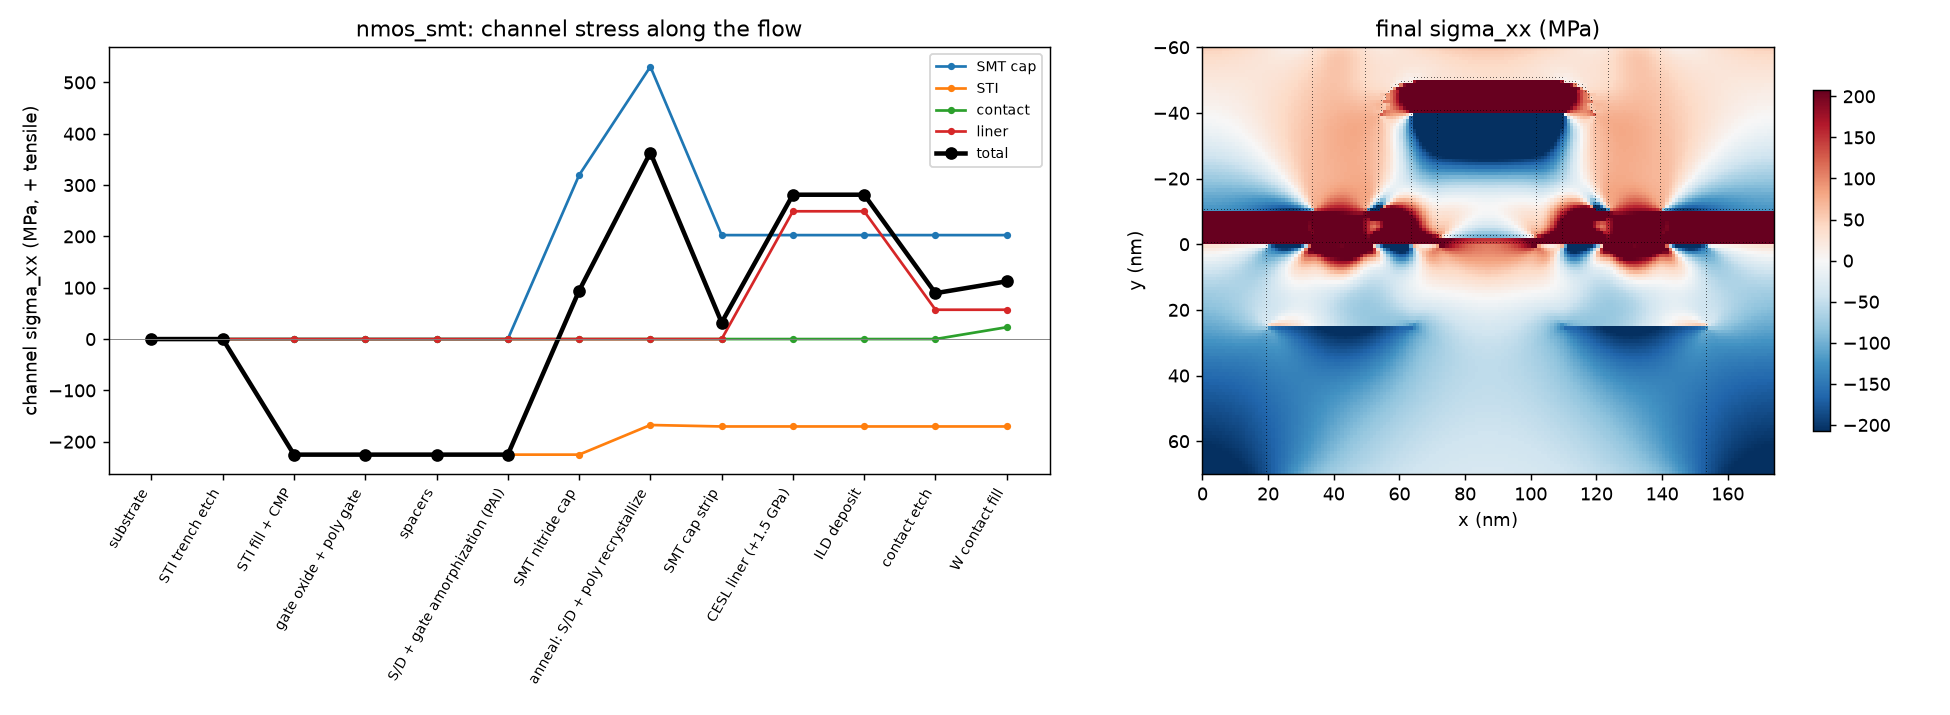
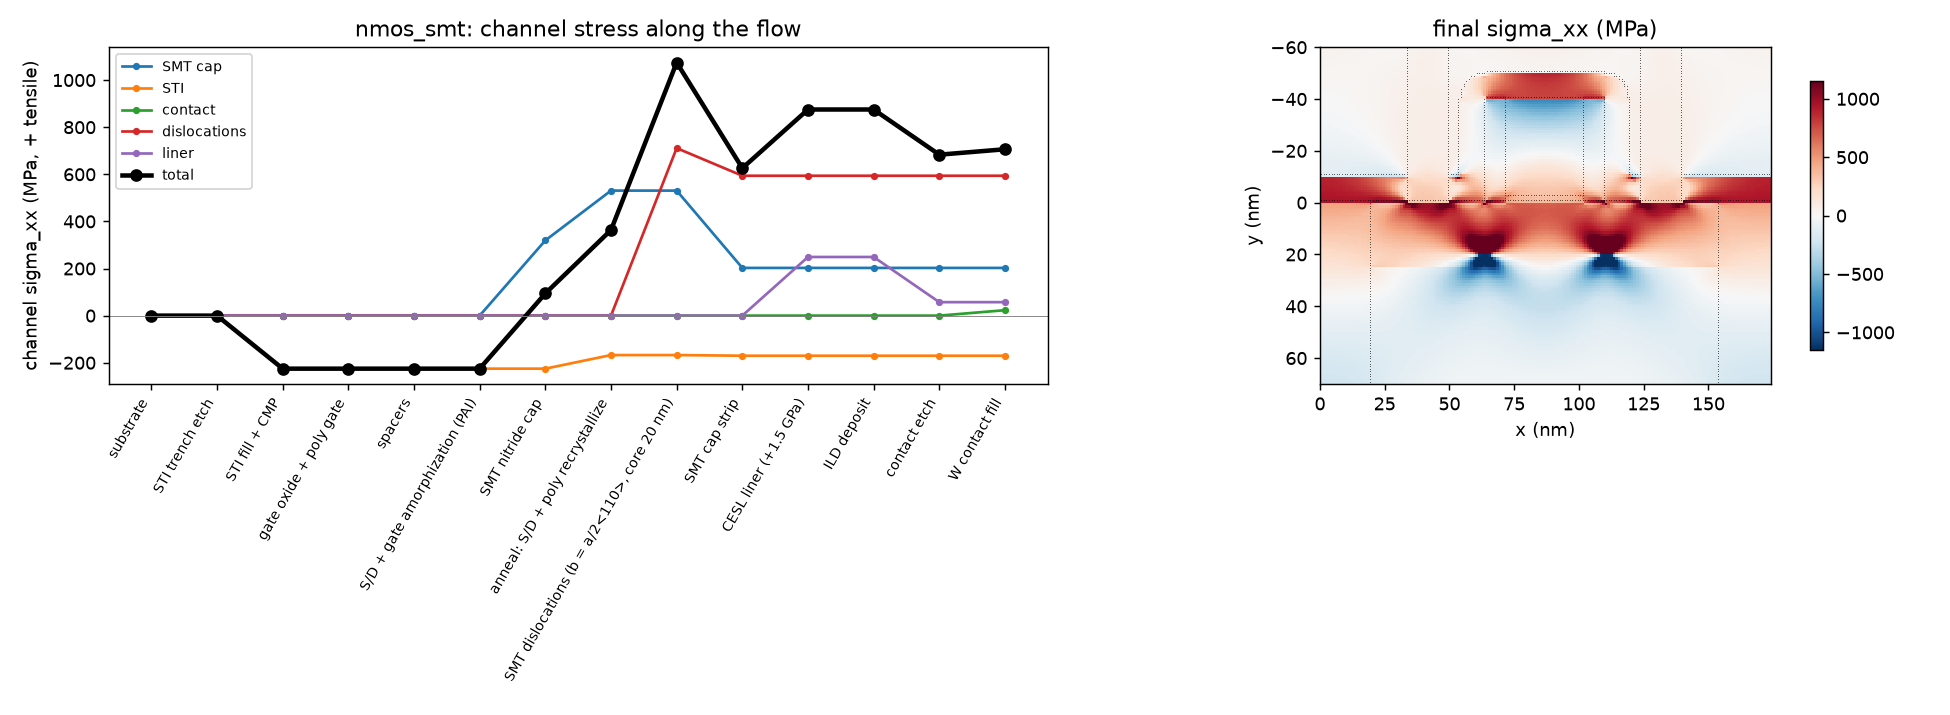
Stress: SMT edge dislocations as a Volterra cut
mechanics/dislocation.py: eps* = sym(b x n)/t on a pixel layer from the
core to the surface; checked against the analytic edge dislocation. The
NMOS SMT flow gets one a/2<110> dislocation per S/D: +594 MPa channel
tension (+113 -> +706 MPa). DEVELOPMENT_LOG 76, docs/stress.md.

diff --git a/mechanics/dislocation.py b/mechanics/dislocation.py
@@ -1,0 +1,69 @@
+"""Edge dislocations as a Volterra cut (2D, line along z).
+
+A dislocation with Burgers vector b is the displacement jump b across a
+cut surface that ends on the dislocation line. In an eigenstrain solver the
+cut is one layer of pixels with stress-free strain
+
+    eps* = sym(b (x) n) / t
+
+(n the cut's unit normal, t the layer thickness along n): the layer is
+stretched or sheared by exactly b. The cut runs from the core to a free
+surface, so only the core is a real defect; the exact cut position does
+not matter beyond the layer's own pixels (Volterra).
+
+Sign convention: b = -b_x x_hat on a vertical cut (n = x_hat) REMOVES a
+half plane of thickness b_x between the core and the surface: the material
+on both sides is pulled together, the classic missing-half-plane edge
+dislocation of an SMT S/D, which leaves the channel next to it in tension.
+For Si, b = a/2<110> = 0.384 nm.
+"""
+import numpy as np
+
+B_SI = 5.431 / np.sqrt(2) / 10.0          # a/2<110>, nm
+
+
+def edge_dislocation(grid, core, cut_dir, b, labels=None, solid=None):
+    """(mask (ny, nx), eps* (ny*nx, 6)) for an edge dislocation whose cut
+    runs from `core` (x, y nm) along `cut_dir` (unit vector, toward the
+    surface) to the end of the solid. b: Burgers vector (bx, by) nm.
+    Only pixels where solid (a bool (ny, nx), default labels != 0) is True
+    get the eigenstrain."""
+    X, Y = grid.coords()
+    h = grid.h
+    d = np.asarray(cut_dir, float)
+    d /= np.linalg.norm(d)
+    n = np.array([-d[1], d[0]])                       # cut normal
+    rx, ry = X - core[0], Y - core[1]
+    along = rx * d[0] + ry * d[1]
+    across = rx * n[0] + ry * n[1]
+    # pixel thickness along n of a square pixel: h (|n_x| + |n_y|) / max... use the
+    # band |across| < t/2 with t = h (|n_x| + |n_y|), so each column of the cut
+    # is crossed by about one pixel
+    t = h * (abs(n[0]) + abs(n[1]))
+    mask = (along >= 0) & (across >= -t / 2) & (across < t / 2)      # half-open: one pixel per column
+    if solid is None and labels is not None:
+        solid = labels != 0
+    if solid is not None:
+        mask &= solid
+    bb = np.asarray(b, float)
+    e = np.zeros(6)
+    e[0] = bb[0] * n[0] / t
+    e[1] = bb[1] * n[1] / t
+    e[5] = (bb[0] * n[1] + bb[1] * n[0]) / t          # engineering shear
+    eps = np.zeros((mask.size, 6))
+    eps[mask.ravel()] = e
+    return mask, eps
+
+
+def edge_dislocation_infinite(x, y, b, E, nu):
+    """Analytic stress (sxx, syy, sxy) of an edge dislocation (b along x,
+    line along z, glide plane y = 0, extra half plane at y > 0 for b > 0)
+    in an infinite isotropic medium, plane strain (Hirth & Lothe 3-43).
+    Here y points UP (the textbook frame); the solver's y points down."""
+    mu = E / (2 * (1 + nu))
+    D = mu * b / (2 * np.pi * (1 - nu))
+    r4 = (x ** 2 + y ** 2) ** 2
+    sxx = -D * y * (3 * x ** 2 + y ** 2) / r4
+    syy = D * y * (x ** 2 - y ** 2) / r4
+    sxy = D * x * (x ** 2 - y ** 2) / r4
+    return sxx, syy, sxy

diff --git a/mechanics/planar_flow.py b/mechanics/planar_flow.py
@@ -22,6 +22,10 @@ be changed with --set NAME=VALUE):
   gate_GPa     -1.0    TiN metal gate
   contact_GPa  +1.0    W contact fill
   cap_GPa      +1.5    SMT cap nitride (NMOS)
+  smt_disl      1      SMT edge dislocations (0 = none): one per S/D at the
+                       gate-side edge, b = a/2<110> = 0.384 nm, a half plane
+                       missing above the core (mechanics/dislocation.py)
+  disl_depth   20      core depth (nm)
 Isotropic films get eps* from their stress (mechanics.elastic.film_eigenstrain);
 SiGe gets the lattice mismatch; Si/SiGe are anisotropic, (001) wafer,
 <110> channel.
@@ -42,7 +46,7 @@ from mechanics.fe2d import Grid2D, StressHistory2D
 GEOM = dict(h=1.0, Lg=30, tox=2, gate_h=40, spacer=8, sd=44, sti=20, sti_depth=80,
             recess=40, raise_=6, liner=10, contact_w=16, hk=2, y_top=-80, y_bot=160, smt_depth=25)
 DEFAULTS = dict(sige_x=0.5, sti_GPa=-0.3, liner_pmos_GPa=-2.5, liner_nmos_GPa=1.5,
-                gate_GPa=-1.0, contact_GPa=1.0, cap_GPa=1.5)
+                gate_GPa=-1.0, contact_GPa=1.0, cap_GPa=1.5, smt_disl=1.0, disl_depth=20.0)
 
 MATS = {1: "Si", 2: "SiGe", 3: "SiO2", 4: "SiO2", 5: "Poly", 6: "Si3N4", 7: "Si3N4",
         8: "SiO2", 9: "HfO2", 10: "TiN", 11: "W", 12: "Si3N4"}
@@ -142,6 +146,20 @@ def run_flow(flow, geom=GEOM, par=DEFAULTS):
         cap = b.conformal(12, p["liner"] + 10)
         b.step("SMT nitride cap", {"SMT cap": (12, b.film(12, v["cap_GPa"]))})
         b.step("anneal: S/D + poly recrystallize", relax=(amorph, 1.0))
+        if v["smt_disl"]:
+            # SMT edge dislocations: one per S/D at the gate-side edge, core at
+            # disl_depth, a half plane (a/2<110>) missing between core and surface
+            from mechanics.dislocation import B_SI, edge_dislocation
+            msk = np.zeros(b.lab.shape, bool)
+            eps = np.zeros((b.lab.size, 6))
+            for side in (-1, 1):
+                x_d = b.xc + side * (p["Lg"] / 2 + p["spacer"]) + side * 0.5 * p["h"]
+                m, e = edge_dislocation(b.g, (x_d, v["disl_depth"]), (0.0, -1.0), (-B_SI, 0.0),
+                                        solid=(b.lab == 1))
+                msk |= m
+                eps += e
+            b.step(f"SMT dislocations (b = a/2<110>, core {v['disl_depth']:.0f} nm)",
+                   {"dislocations": (msk, eps)})
         b.lab[cap] = 0
         b.step("SMT cap strip")
     sig_l = v["liner_pmos_GPa"] if pmos else v["liner_nmos_GPa"]

diff --git a/testsuite/test_mechanics.py b/testsuite/test_mechanics.py
@@ -147,5 +147,37 @@ class TestHistory(unittest.TestCase):
         self.assertLess(np.sign(kept) * np.sign(under_cap), 0)
 
 
+class TestDislocation(unittest.TestCase):
+    def test_edge_dislocation_matches_volterra_field(self):
+        """Volterra cut vs the analytic infinite-medium edge dislocation
+        (Hirth & Lothe), isotropic, 10-20 nm from the core. sigma_yy and
+        sigma_xy only: the side walls are held, which adds a near-uniform
+        sigma_xx (inserting b into a constrained box), ~E b / L."""
+        from mechanics.dislocation import edge_dislocation, edge_dislocation_infinite
+        E, nu, b, L = 100.0, 0.25, 0.4, 200.0
+        n = int(L)
+        g = Grid2D(n, n, 1.0, -L / 2, -L / 2)
+        sh = StressHistory2D(g, {1: el.ElasticMaterial("iso", el.isotropic_C(E, nu))})
+        lab = np.ones((n, n), np.int32)
+        sh.step("bulk", lab)
+        mask, eps = edge_dislocation(g, (0.0, 0.0), (0.0, -1.0), (b, 0.0), labels=lab)
+        sh.step("disl", lab, stressors={"d": (mask, eps)})
+        s = sh.total().reshape(n, n, 6)
+        X, Y = g.coords()
+        for x, y in [(15.5, 0.5), (0.5, 15.5), (12.5, -7.5), (-11.5, -7.5), (8.5, 3.5)]:
+            j, i = int(y + L / 2), int(x + L / 2)
+            ax, ay, axy = edge_dislocation_infinite(X[j, i], -Y[j, i], b, E, nu)   # textbook y is up
+            for fe, an in ((s[j, i, 1], ay), (s[j, i, 5], -axy)):
+                if abs(an) > 0.05:
+                    self.assertLess(abs(fe - an), 0.2 * abs(an))
+
+    def test_smt_dislocation_tension(self):
+        """Missing half planes at the S/D edges put the NMOS channel in
+        tension (the SMT dislocation boost)."""
+        from mechanics.planar_flow import DEFAULTS, run_flow
+        with_d = run_flow("nmos_smt", par=dict(DEFAULTS, smt_disl=1.0)).rows[-1][2]
+        self.assertGreater(with_d["dislocations"][0], 200.0)    # MPa
+
+
 if __name__ == "__main__":
     unittest.main()

diff --git a/docs/stress.md b/docs/stress.md
@@ -55,7 +55,8 @@ Channel stress is the mean over the top 4 nm of the channel, in MPa (+ tensile):
 |---|---|---|---|
 | PMOS SiGe, gate-first | −897 | +1180 | +371 |
 | PMOS SiGe, gate-last (RMG) | −2674 | −106 | −205 |
-| NMOS SMT (poly gate) | +113 | −209 | −69 |
+| NMOS SMT (poly gate), cap only | +113 | −209 | −69 |
+| NMOS SMT + edge dislocations | +706 | −343 | −80 |
 
 **The poly pull.** In the gate-last flow, channel compression reaches −1455 MPa
 after ILD CMP. Pulling the dummy poly takes it to −2895 MPa: the poly had
@@ -71,6 +72,21 @@ With the gate pulled, the channel surface is free and σyy drops to about 0.
 capped with a +1.5 GPa nitride. The anneal lets them recrystallize
 stress-free in their capped shape, and the cap is then stripped. The
 channel keeps +203 MPa of tension from the cap alone, after the cap is gone.
+
+**SMT dislocations.** During that anneal, an edge dislocation forms in each
+S/D at its gate-side edge. Each one is modelled as a Volterra cut
+(`mechanics/dislocation.py`):
+- b = a/2<110> = 0.384 nm, along the channel;
+- a half plane is missing between the core (20 nm deep) and the surface.
+
+The two dislocations add +594 MPa of channel tension, the largest single
+term, for a +706 MPa total. This is the big NMOS boost of SMT. The same
+tension in a PMOS would cancel its compressive gain. Turn them off with
+`--set smt_disl=0`, or move the core with `--set disl_depth=...`.
+
+The Volterra field is checked against the analytic edge dislocation (Hirth &
+Lothe), with σyy and σxy within 20% at 10-20 nm from the core. σxx is offset
+by the held side walls, about E·b/L.
 
 <p align="center"><img src="img/stress_nmos_smt.png" width="100%"></p>
 
@@ -90,6 +106,9 @@ channel keeps +203 MPa of tension from the cap alone, after the cap is gone.
 
 - 2D plane strain only. FinFET and nanosheet cross-sections are 3D problems, which are phase 3 (octree hexes).
 - The geometry here is drawn by `mechanics/planar_flow.py`, not yet taken from `fab/` step snapshots. Hooking `fab/flow.py`'s `run_step` is next.
-- A dislocation stressor (SMT edge dislocations), as a Volterra cut, is phase 2.
+- Dislocations are pure edge, with the line along the width, and the cut is
+  vertical. Inclined {111} cuts work in the code (any `cut_dir`) but are not
+  in the flow yet. The core position is a user input; there is no
+  nucleation model.
 - Piezoresistive mobility (phase 4) and the per-edge Δμ/μ = −Π:σ will use these stress fields.
 - The magnitudes are high: a dense array, 50% Ge, plane strain, and liner and film values that are rough. The trends and their sign by direction are the teaching point.

diff --git a/DEVELOPMENT_LOG.md b/DEVELOPMENT_LOG.md
@@ -6552,9 +6552,14 @@ The poly pull goes -1455 -> -2895 MPa; the SMT cap alone leaves +203 MPa after t
 - superposition;
 - memorization sign.
 
+**Dislocations** (`mechanics/dislocation.py`):
+- an edge dislocation as a Volterra cut, eps* = sym(b x n)/t on one pixel layer from the core to the surface;
+- checked against Hirth & Lothe's infinite-medium field (syy, sxy within 20% at 10-20 nm; sxx is offset by the held side walls, ~E b / L).
+
+In the NMOS SMT flow, one dislocation per S/D at the gate-side edge (b = a/2<110>, half plane missing, core 20 nm) adds +594 MPa of channel tension: +113 -> +706 MPa. Tests: 12.
+
 **Next:**
 - take the geometry from `fab/` step snapshots;
-- the dislocation (Volterra cut);
 - 3D on the octree;
 - piezo mobility.
 - Runtime: the 2D target is < 2 s (AMG / reuse of the factorization between steps with unchanged labels).
